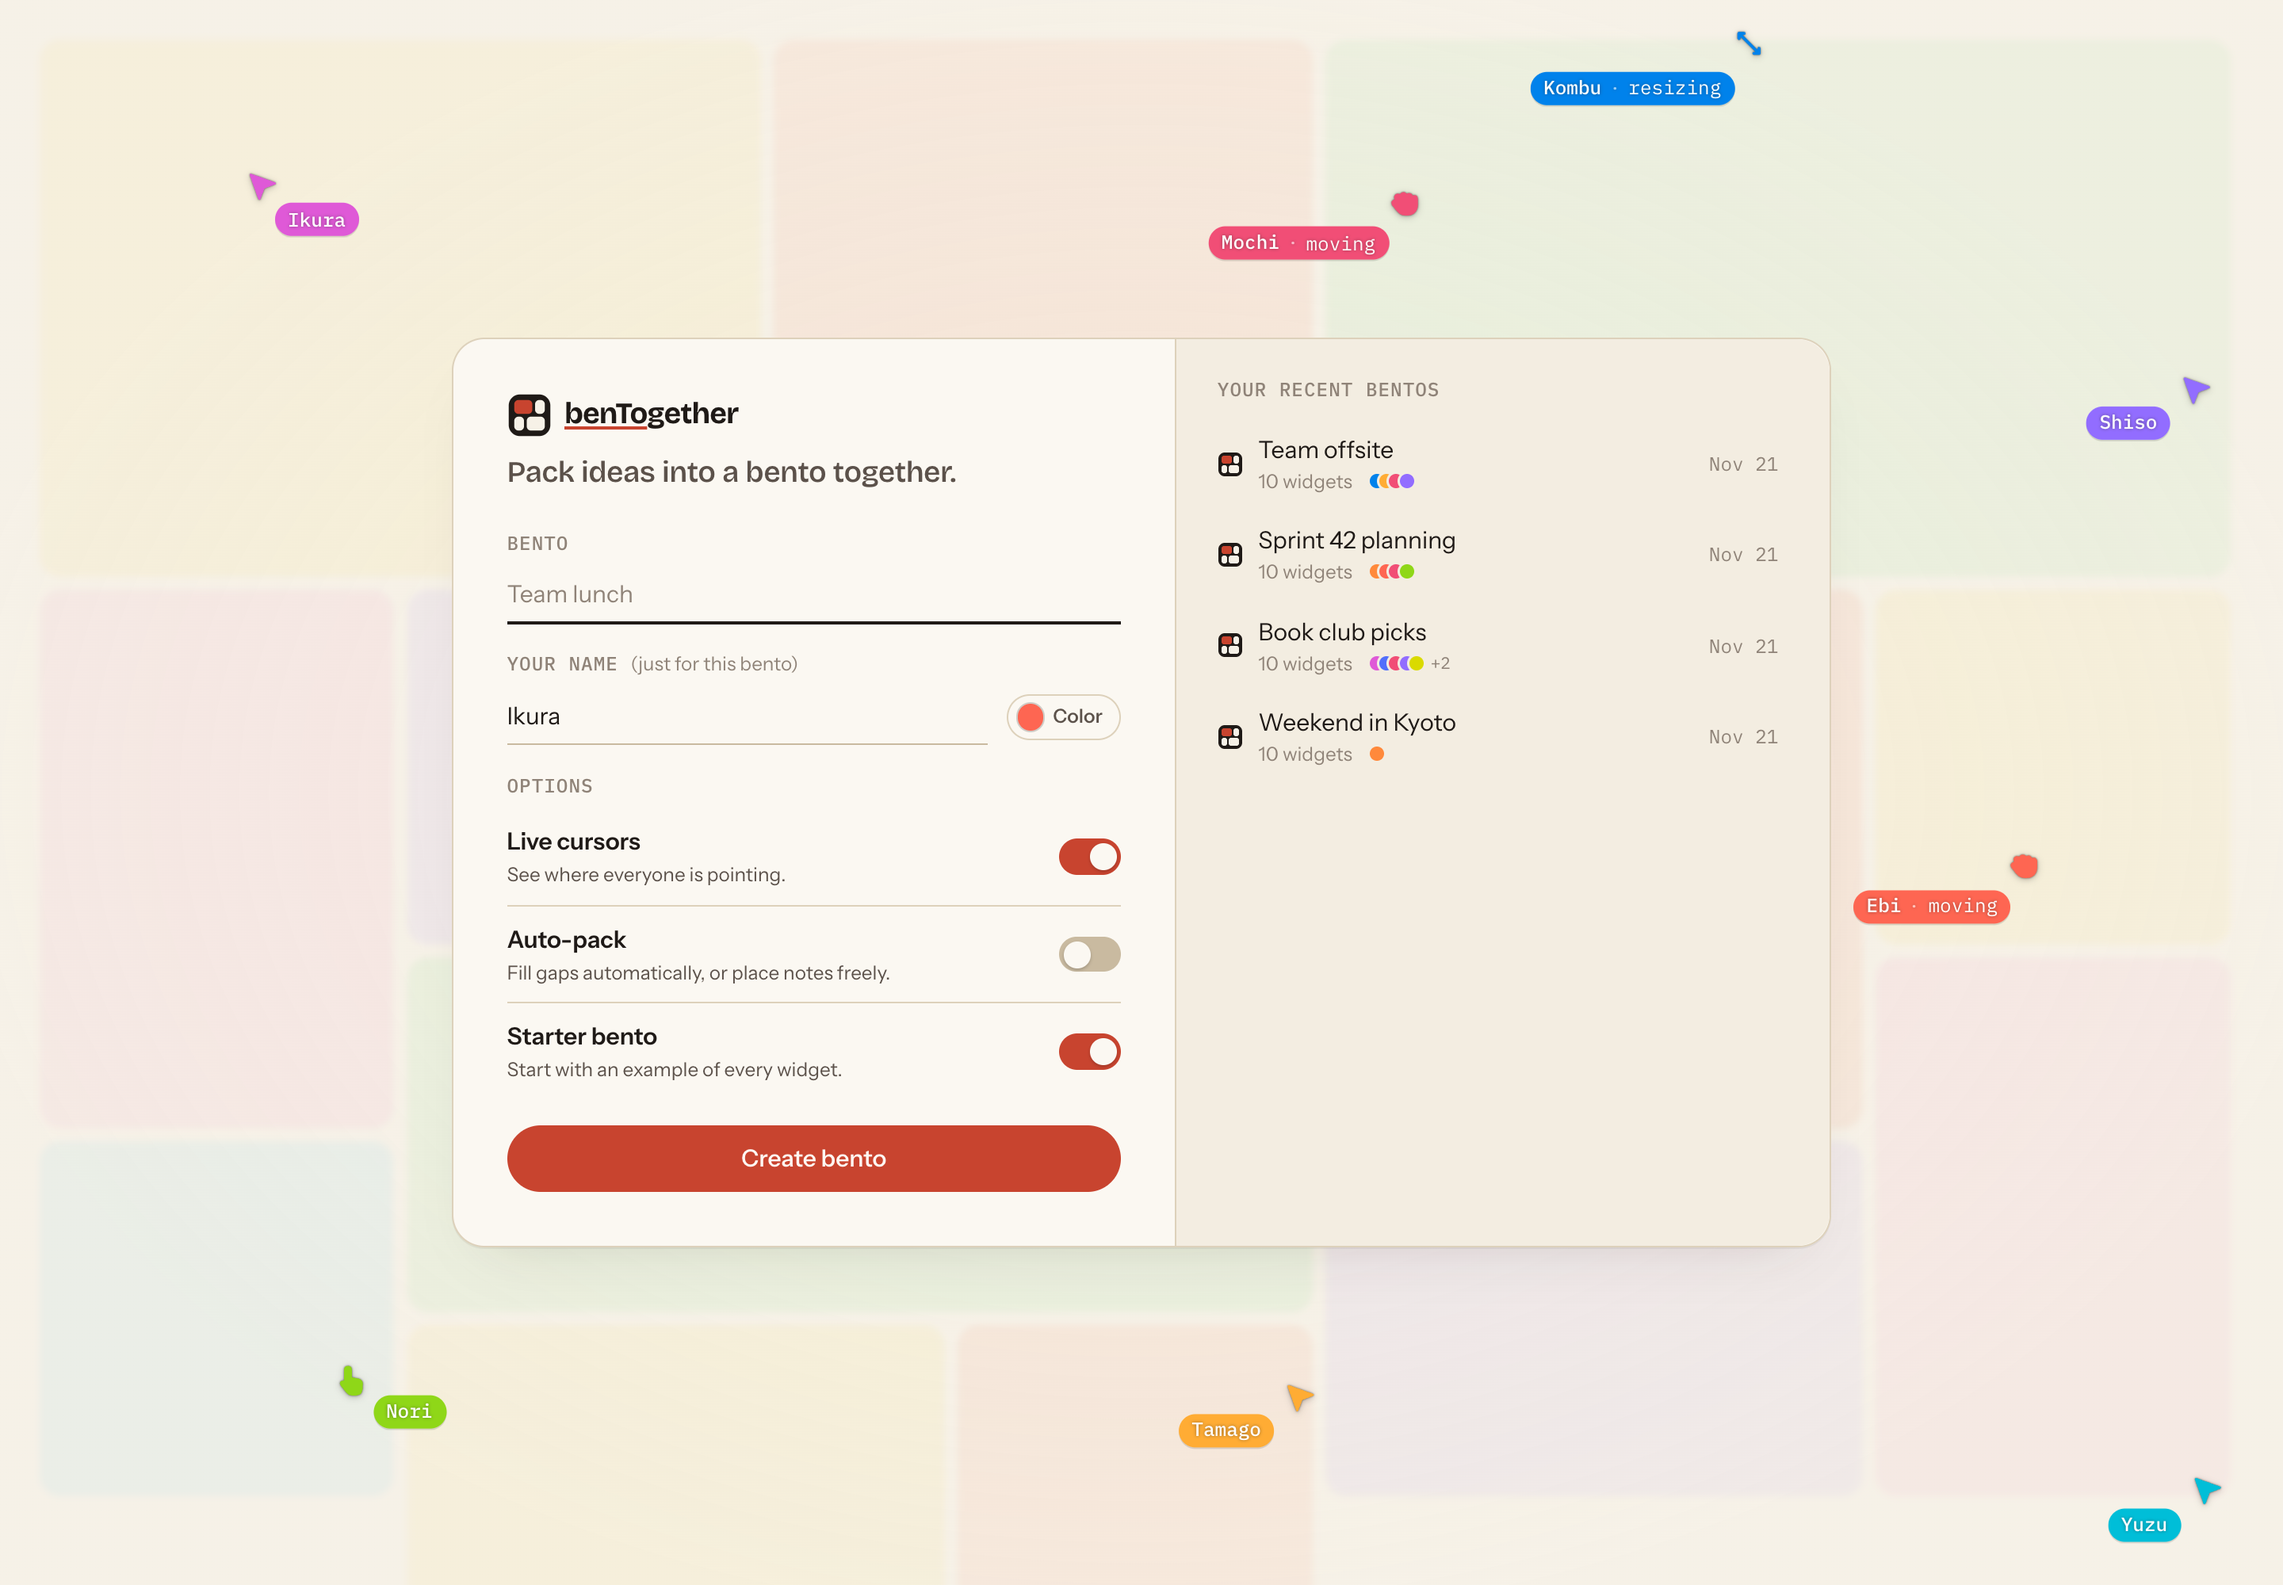
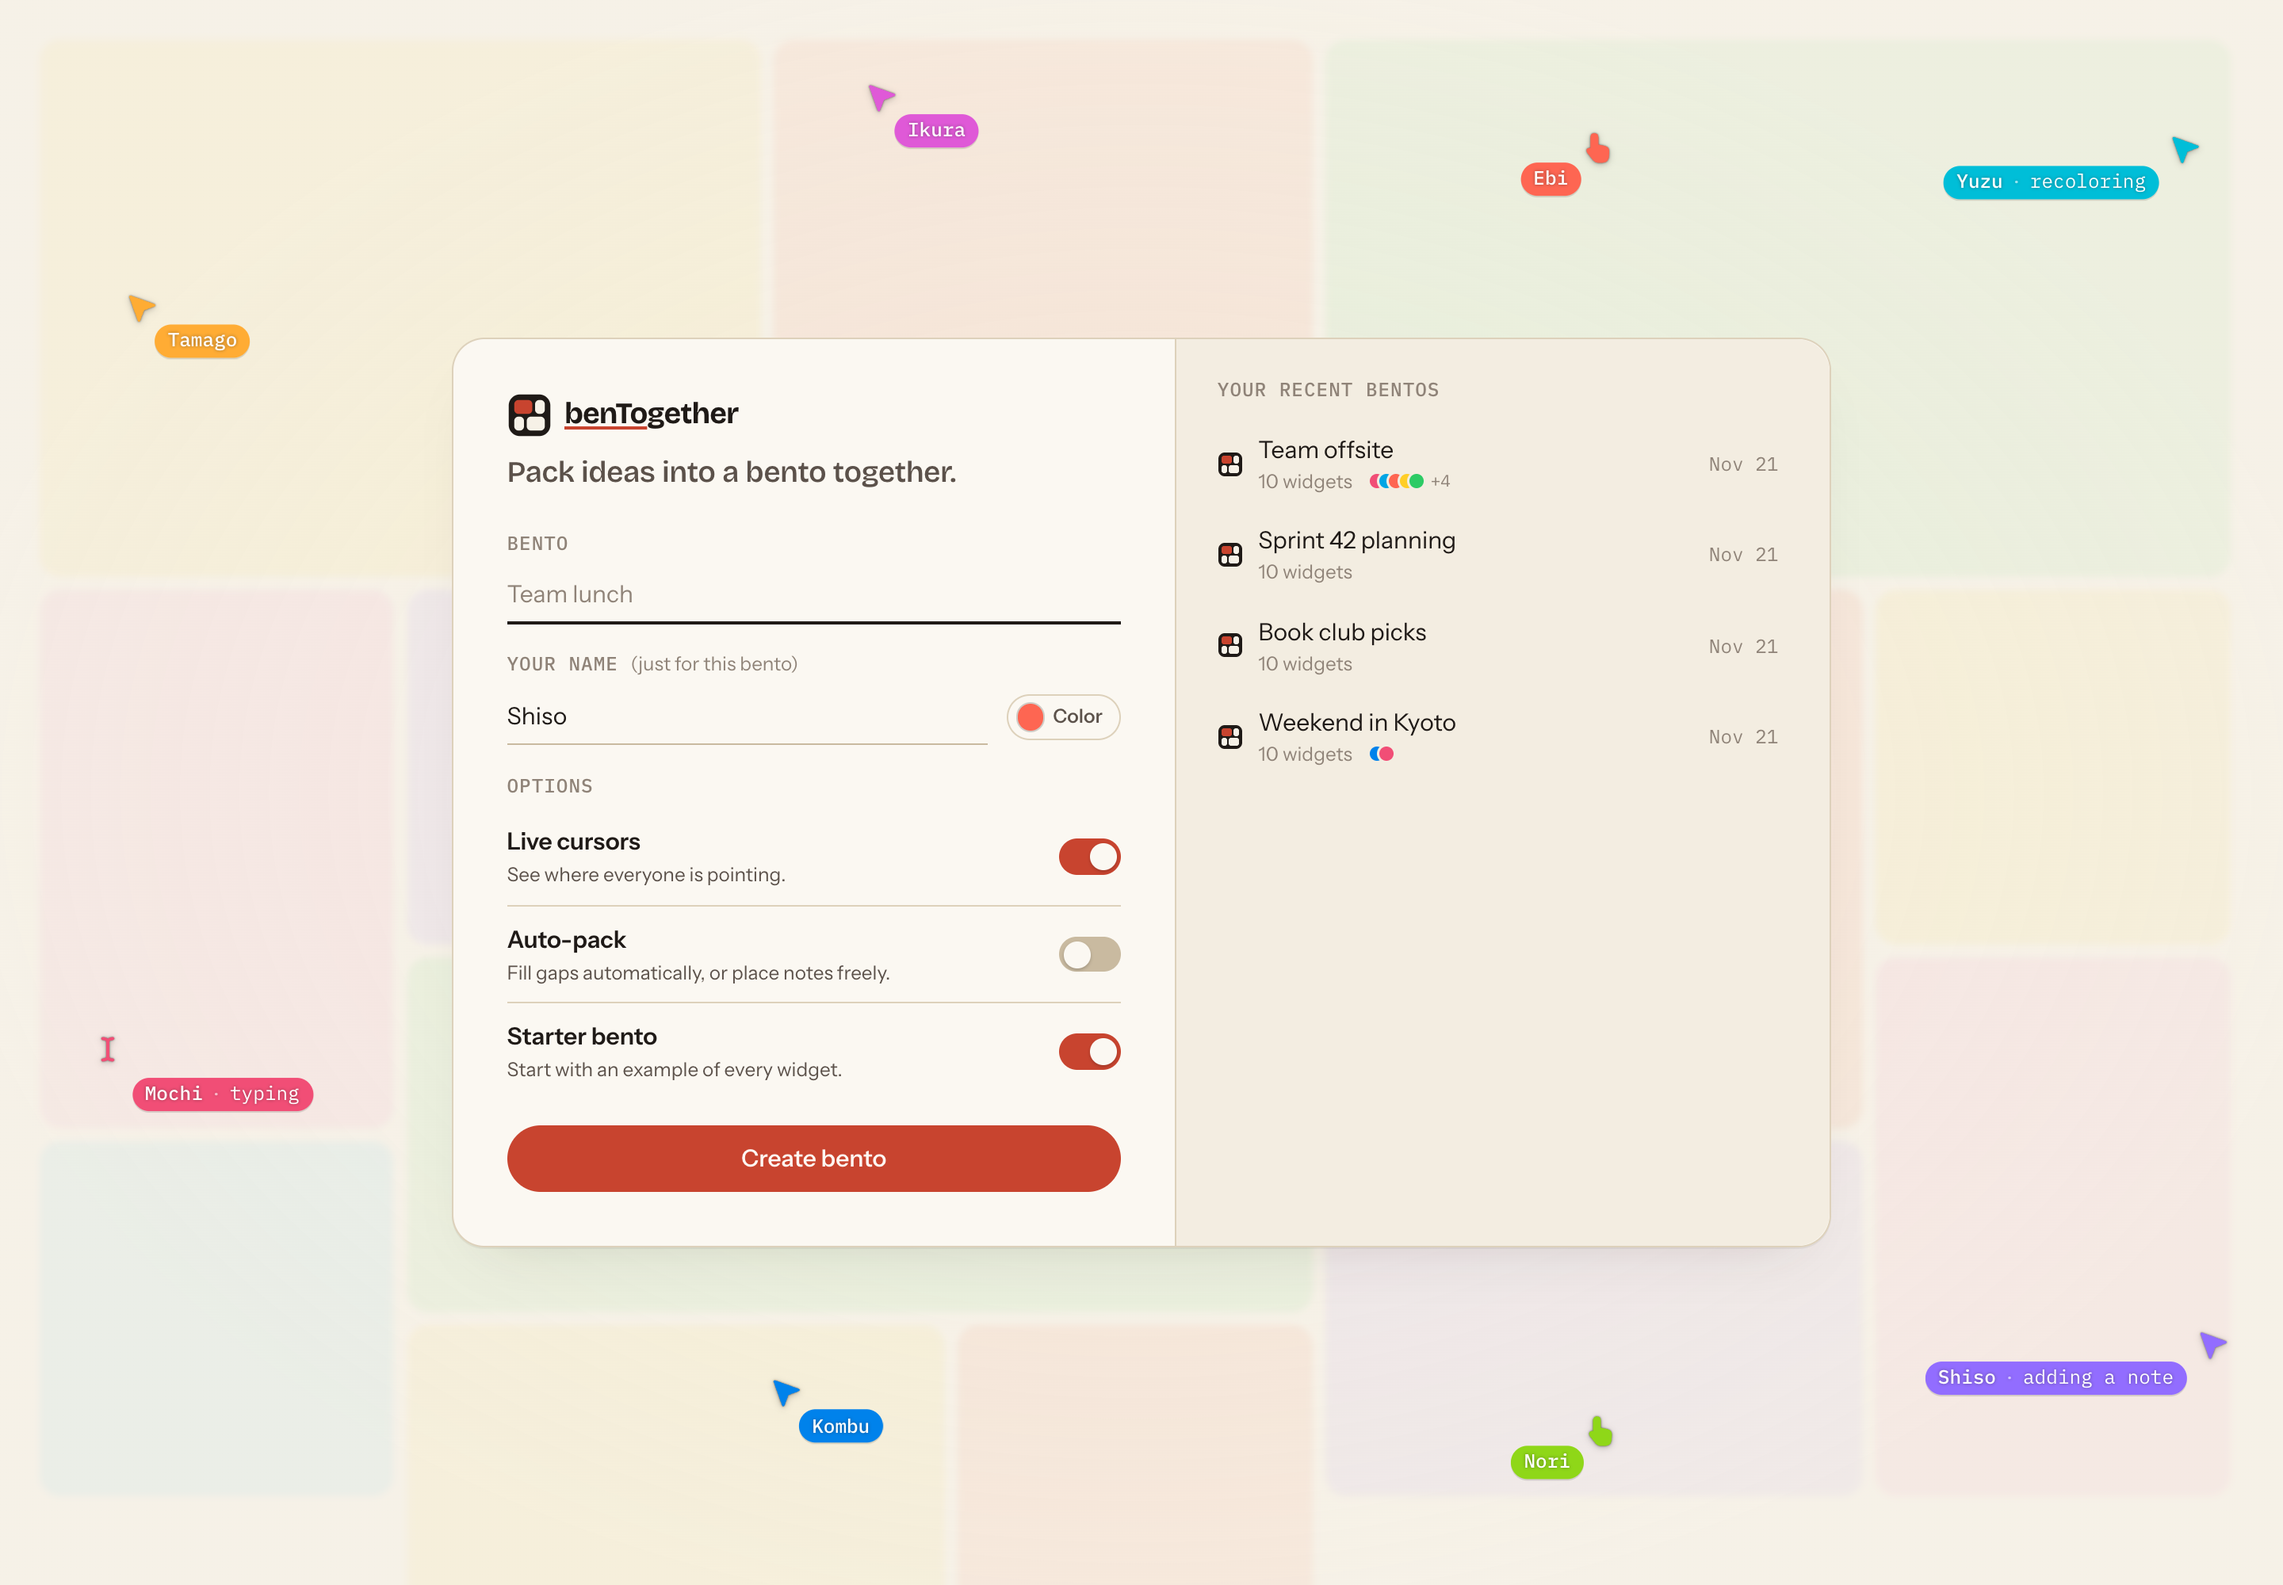
Tidy starter bento, asks and poll rows; refresh screenshots
- Starter bento: budget in blue, Tips in purple at small size, and the
  timer is now "Quick sync" at 15 minutes.
- Asks: person rows span the full width as pills. Hovering the right
  edge slides the row over to show delete. New asks show as a shu dot
  on the avatar; the open count is a pill.
- Poll: hovering an option hides its voters and count so edit and
  delete no longer overlap them.
- Re-take the README screenshots without the floating add button.

diff --git a/apps/web/src/board/widgets/asks/Asks.module.css b/apps/web/src/board/widgets/asks/Asks.module.css
@@ -10,27 +10,58 @@
   gap: 0.3em;
 }
 
+/* A person spans the full width. Hovering the right edge (or focusing
+   delete) slides the row left to make room for the delete button. */
 .person {
+  --slot: 1.8em;
+  position: relative;
   display: grid;
-  grid-template-columns: minmax(0, 1fr) auto;
-  align-items: center;
-  gap: 0.2em;
+}
+
+.reveal,
+.remove {
+  position: absolute;
+  top: 50%;
+  right: 0;
+  translate: 0 -50%;
+}
+
+.reveal {
+  width: var(--slot);
+  height: 100%;
+}
+
+.remove {
+  right: 0.2em;
+  border-radius: 50%;
+  opacity: 0;
+  pointer-events: none;
+}
+
+.person:has(.reveal:hover, .remove:hover, .remove:focus-visible) .personBtn {
+  margin-right: var(--slot);
+}
+
+.person:has(.reveal:hover, .remove:hover, .remove:focus-visible) .remove {
+  opacity: 1;
+  pointer-events: auto;
 }
 
 .personBtn {
-  display: grid;
-  grid-template-columns: auto minmax(0, 1fr) auto auto;
+  display: flex;
   align-items: center;
   gap: 0.5em;
   min-width: 0;
-  padding: 0.3em 0.45em;
+  padding: 0.3em 0.6em 0.3em 0.3em;
   border: 0;
-  border-radius: 0.5em;
+  border-radius: 999px;
   background: color-mix(in srgb, #fff 30%, transparent);
   color: inherit;
   font: inherit;
   text-align: left;
-  transition: background-color 120ms var(--ease-soft);
+  transition:
+    background-color 120ms var(--ease-soft),
+    margin-right 160ms var(--ease-soft);
 }
 
 .personBtn:hover {
@@ -38,8 +69,10 @@
 }
 
 .avatar {
+  position: relative;
   display: grid;
   place-items: center;
+  flex: none;
   width: 1.6em;
   height: 1.6em;
   border-radius: 50%;
@@ -50,7 +83,21 @@
   font-size: 0.85em;
 }
 
+/* Something new since you last looked: a shu dot on the avatar. */
+.avatar[data-unread]::after {
+  content: "";
+  position: absolute;
+  top: -0.1em;
+  right: -0.1em;
+  width: 0.55em;
+  height: 0.55em;
+  border-radius: 50%;
+  background: var(--shu);
+  box-shadow: 0 0 0 0.14em var(--bg);
+}
+
 .name {
+  flex: 1;
   min-width: 0;
   overflow: hidden;
   text-overflow: ellipsis;
@@ -58,24 +105,17 @@
   font-weight: 600;
 }
 
+/* How many asks are still open, as a pill. */
 .open {
+  flex: none;
+  padding: 0.1em 0.6em;
+  border-radius: 999px;
+  background: color-mix(in srgb, var(--lacquer) 9%, transparent);
+  color: color-mix(in srgb, var(--lacquer) 70%, transparent);
   font-family: var(--font-mono);
   font-size: 0.7em;
-  color: color-mix(in srgb, var(--lacquer) 55%, transparent);
-}
-
-/* New since you last looked: a counter in the box's accent. */
-.badge {
-  min-width: 1.4em;
-  padding: 0 0.35em;
-  border-radius: 1em;
-  background: var(--shu);
-  color: var(--shu-ink);
-  font-family: var(--font-mono);
-  font-size: 0.7em;
-  font-weight: 700;
-  line-height: 1.5;
-  text-align: center;
+  font-variant-numeric: tabular-nums;
+  white-space: nowrap;
 }
 
 .newCount {

diff --git a/apps/web/src/board/widgets/asks/Asks.tsx b/apps/web/src/board/widgets/asks/Asks.tsx
@@ -127,17 +127,19 @@ export function Asks(props: WidgetProps) {
                           aria-label={`${p().name}: ${openCount(p())} open${unread(p()) ? `, ${unread(p())} new` : ""}`}
                           onClick={() => openPerson(p())}
                         >
-                          <span class={styles.avatar} aria-hidden="true">
+                          <span class={styles.avatar} data-unread={unread(p()) > 0} aria-hidden="true">
                             {p().name.slice(0, 1).toUpperCase()}
                           </span>
                           <span class={styles.name}>{p().name}</span>
-                          <span class={styles.open}>{openCount(p())} open</span>
-                          <Show when={unread(p()) > 0}>
-                            <span class={styles.badge}>{unread(p())}</span>
-                          </Show>
+                          <span class={styles.open} aria-hidden="true">
+                            {openCount(p())} open
+                          </span>
                         </button>
                         <Show when={!props.readOnly}>
+                          {/* Hovering near the right edge slides the row over to show delete. */}
+                          <span class={styles.reveal} aria-hidden="true" />
                           <RemoveButton
+                            class={styles.remove}
                             label={`Remove ${p().name}`}
                             onClick={() => void change({ do: "removePerson", personId: p().id })}
                           />

diff --git a/apps/realtime/src/template.ts b/apps/realtime/src/template.ts
@@ -1,6 +1,5 @@
 import {
   SYSTEM_AUTHOR,
-  TIMER_DEFAULT_MS,
   bitsToSlots,
   slotAt,
   voterKey,
@@ -121,7 +120,7 @@ export function starterBento(boxId: string, now: number): Widget[] {
       }),
     },
     {
-      ...frame("sbudget", { x: 4, y: 0, w: 3, h: 2 }, "tamago", "Outing budget"),
+      ...frame("sbudget", { x: 4, y: 0, w: 3, h: 2 }, "nori", "Outing budget"),
       kind: "budget",
       currency: "USD",
       amount: 42_000,
@@ -131,11 +130,11 @@ export function starterBento(boxId: string, now: number): Widget[] {
       ],
     },
     {
-      ...frame("stimer", { x: 7, y: 0, w: 2, h: 2 }, "ume", "Quick standup"),
+      ...frame("stimer", { x: 7, y: 0, w: 2, h: 2 }, "ume", "Quick sync"),
       kind: "timer",
-      duration: TIMER_DEFAULT_MS,
+      duration: 15 * 60_000,
       endsAt: null,
-      left: TIMER_DEFAULT_MS,
+      left: 15 * 60_000,
     },
     {
       ...frame("spoll", { x: 9, y: 0, w: 3, h: 4 }, "nori", "Lunch options?"),
@@ -206,9 +205,9 @@ export function starterBento(boxId: string, now: number): Widget[] {
       })),
     },
     {
-      ...frame("stips", { x: 9, y: 4, w: 3, h: 4 }, "nori"),
+      ...frame("stips", { x: 9, y: 4, w: 3, h: 4 }, "shiso"),
       kind: "note",
-      size: "m",
+      size: "s",
       text: "Tips\n\n• Share the link: everyone sees changes as they happen.\n\n• Set new visitor permissions to view/edit\n\n• Password protect the link, or allow anyone with it to join\n",
     },
     {

diff --git a/apps/web/src/board/widgets/asks/Preview.tsx b/apps/web/src/board/widgets/asks/Preview.tsx
@@ -5,13 +5,16 @@ export function AsksPreview() {
   return (
     <span class={styles.card}>
       <span class={styles.row}>
-        <span class={styles.avatar}>M</span>
+        <span class={styles.avatar} data-unread>
+          M
+        </span>
         <span class={styles.line} style={{ "--w": "70%" }} />
-        <span class={styles.badge}>2</span>
+        <span class={styles.pill}>2</span>
       </span>
       <span class={styles.row}>
         <span class={styles.avatar}>Y</span>
         <span class={styles.line} style={{ "--w": "50%" }} />
+        <span class={styles.pill}>1</span>
       </span>
     </span>
   );

diff --git a/apps/web/src/board/widgets/asks/Preview.module.css b/apps/web/src/board/widgets/asks/Preview.module.css
@@ -40,11 +40,25 @@
   background: color-mix(in srgb, var(--note-ink) 45%, transparent);
 }
 
-.badge {
-  padding: 0 0.2rem;
-  border-radius: 1rem;
+.avatar[data-unread] {
+  position: relative;
+}
+
+.avatar[data-unread]::after {
+  content: "";
+  position: absolute;
+  top: -0.08rem;
+  right: -0.08rem;
+  width: 0.3rem;
+  height: 0.3rem;
+  border-radius: 50%;
   background: var(--shu);
-  color: var(--shu-ink);
+}
+
+.pill {
+  padding: 0 0.25rem;
+  border-radius: 1rem;
+  background: color-mix(in srgb, var(--note-ink) 12%, transparent);
   font-size: 0.5rem;
   font-weight: 700;
 }

diff --git a/apps/web/src/board/frame/parts.tsx b/apps/web/src/board/frame/parts.tsx
@@ -229,11 +229,12 @@ export function TrashIcon() {
 }
 
 /** A remove button that shows on hover of its row. */
-export function RemoveButton(props: { label: string; onClick: () => void }) {
+/** `class`, when given, replaces the default show-on-row-hover behavior. */
+export function RemoveButton(props: { label: string; onClick: () => void; class?: string }) {
   return (
     <button
       type="button"
-      class={[styles.icon, styles.onHover]}
+      class={[styles.icon, props.class ?? styles.onHover]}
       aria-label={props.label}
       onClick={() => props.onClick()}
     >

diff --git a/apps/web/src/board/widgets/poll/Poll.module.css b/apps/web/src/board/widgets/poll/Poll.module.css
@@ -110,7 +110,16 @@
 
 .rowTools > * {
   pointer-events: auto;
-  background: color-mix(in srgb, #fff 70%, transparent);
+}
+
+/* While the row is hovered (or a tool has focus), the voters and count
+   step aside so the tools have the right end to themselves. */
+.row[data-tools]:is(:hover, :has(.rowTools :focus-visible)) .vote {
+  padding-right: 3.4em;
+}
+
+.row[data-tools]:is(:hover, :has(.rowTools :focus-visible)) :is(.voters, .n) {
+  display: none;
 }
 
 .count {

diff --git a/apps/web/src/board/widgets/poll/Poll.tsx b/apps/web/src/board/widgets/poll/Poll.tsx
@@ -169,7 +169,13 @@ function Option(props: {
   }
 
   return (
-    <li class={styles.row} data-row data-picked={props.picked} style={{ "--share": props.share }}>
+    <li
+      class={styles.row}
+      data-row
+      data-picked={props.picked}
+      data-tools={!props.readOnly}
+      style={{ "--share": props.share }}
+    >
       <Show
         when={draft() !== null}
         fallback={

diff --git a/README.md b/README.md
@@ -46,7 +46,7 @@ Vercel deployed example (https://bentogether.vercel.app/) runs on a Cloudflare f
 | Timer      | One countdown for everyone, counted on each screen from the server's clock                                                    |
 | Poll       | A question with options; everyone votes, viewers too                                                                          |
 | Ideas      | Pitch ideas and upvote the best (viewers can upvote)                                                                          |
-| Asks       | What each teammate needs, with "new" counts kept on your own device                                                           |
+| Asks       | What each teammate needs and how many are open; a dot marks anything new since you last looked                                |
 | Free times | Paint the half hours you're free over a week, shown in your own time zone                                                     |
 | Calendar   | Month, week and day views; events in each viewer's own time                                                                   |
 
